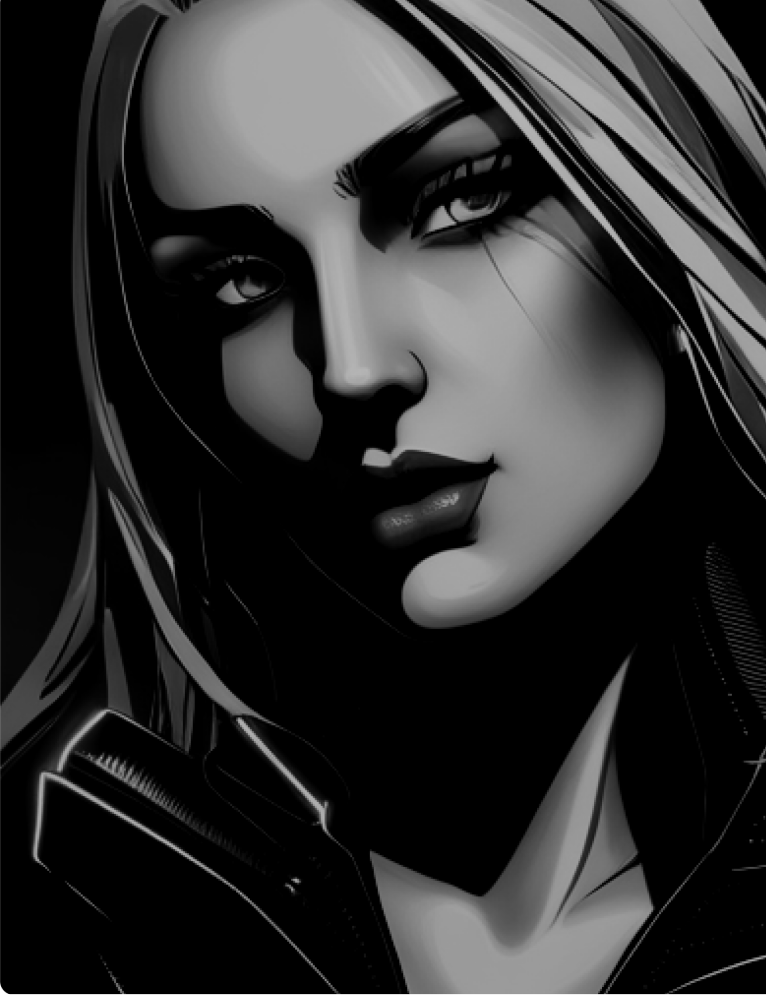
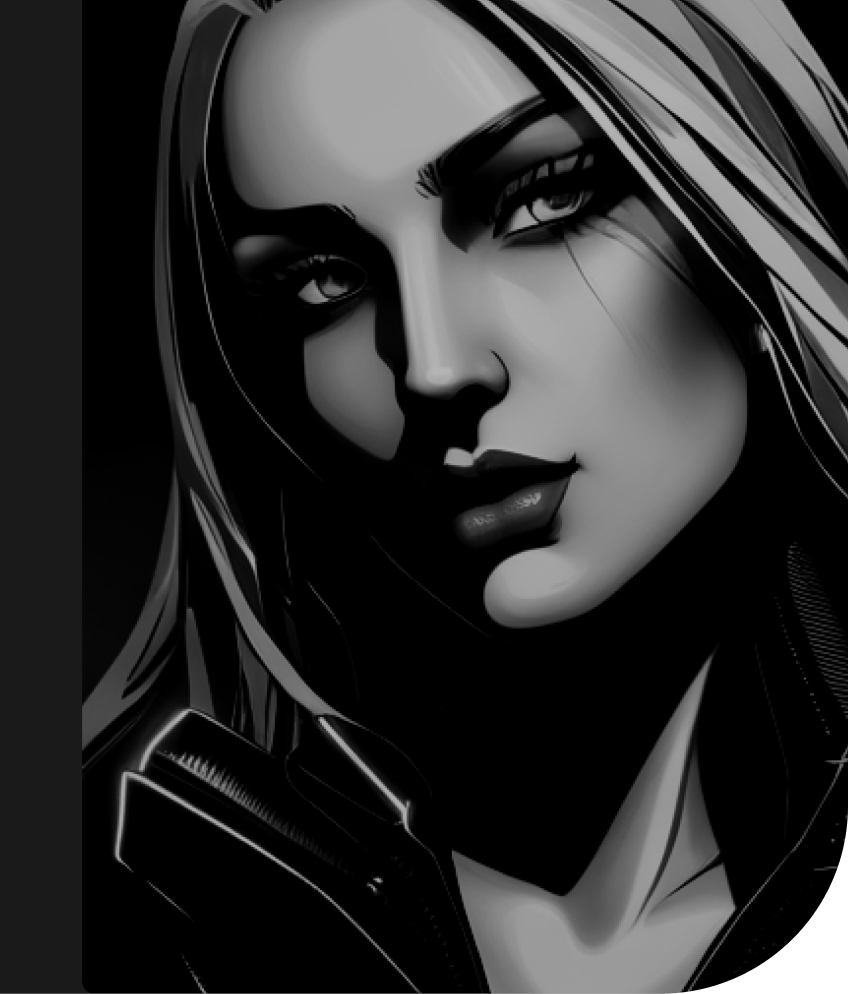
01.09.2023a

diff --git a/#source/scss/style3.scss b/#source/scss/style3.scss
@@ -199,6 +199,9 @@ main {
     font-size: 32px;
     line-height: 124.7%;
     font-weight: 300;
+    @media (max-width: 1920px) {
+        @include adaptive-value( font-size , 32 , 18 , 1920 , 320 );
+    }
 }
 
 .footer__line {
@@ -384,7 +387,7 @@ main {
         @include adaptive-value( width , 766 , 100 , 1150 , 320 );
         transform: rotate(-90deg);
         transform-origin: left bottom;
-        @include adaptive-value( left , 820 , 307 , 1150 , 320 );
+        @include adaptive-value( left , 900 , 339 , 1150 , 320 );
         @include adaptive-value( width , 995 , 379 , 1150 , 320 );
     }
 }
@@ -393,7 +396,7 @@ main {
     position: relative;
     display: flex;
     background: #000;
-    border-radius: 0px 0px 80px 0px;
+    border-radius: 0px 0px 250px 0px;
 }
 
 .player__image img {

diff --git a/css/style3.css b/css/style3.css
@@ -329,6 +329,11 @@ main {
   line-height: 124.7%;
   font-weight: 300;
 }
+@media (max-width: 1920px) {
+  .footer__text {
+    font-size: calc(18px + 14 * ((100vw - 320px) / 1600));
+  }
+}
 
 .footer__line {
   width: 840px;
@@ -568,7 +573,7 @@ main {
             transform: rotate(-90deg);
     -webkit-transform-origin: left bottom;
             transform-origin: left bottom;
-    left: calc(307px + 513 * ((100vw - 320px) / 830));
+    left: calc(339px + 561 * ((100vw - 320px) / 830));
     width: calc(379px + 616 * ((100vw - 320px) / 830));
   }
 }
@@ -579,7 +584,7 @@ main {
   display: -ms-flexbox;
   display: flex;
   background: #000;
-  border-radius: 0px 0px 80px 0px;
+  border-radius: 0px 0px 250px 0px;
 }
 
 .player__image img {
